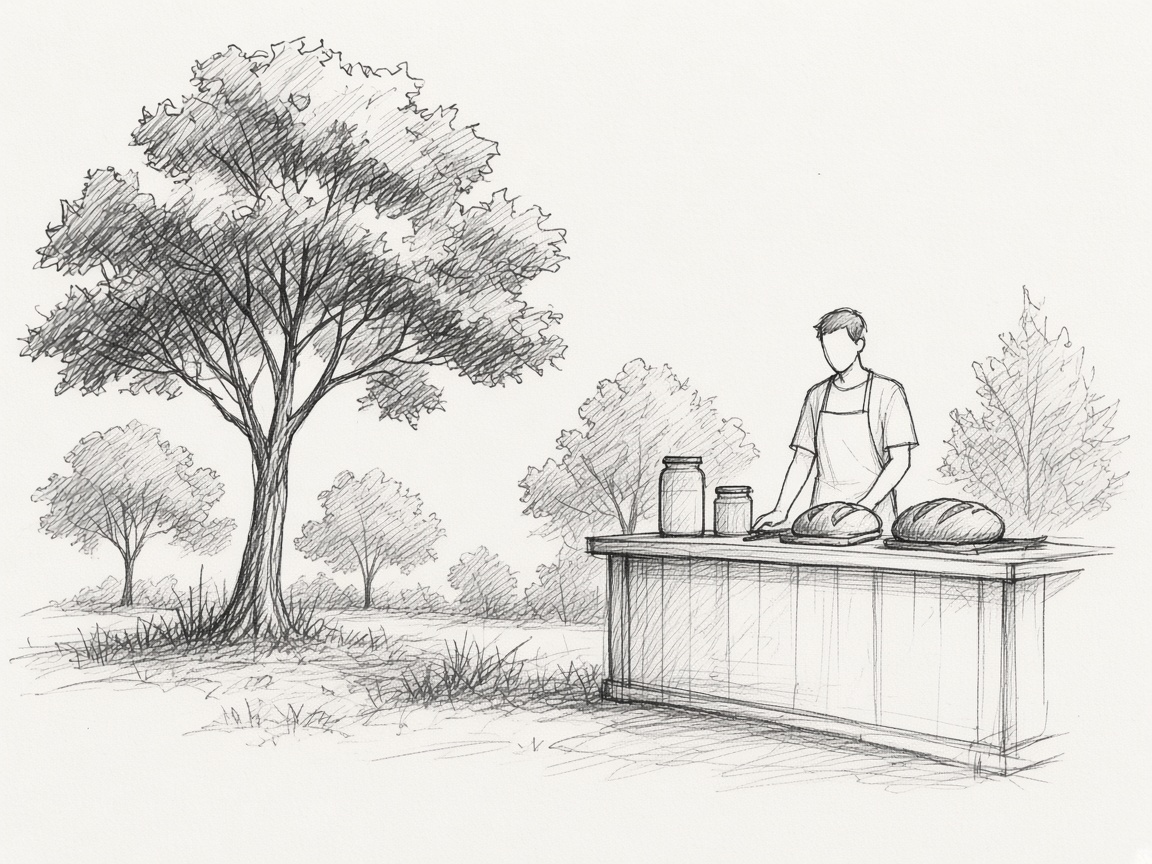
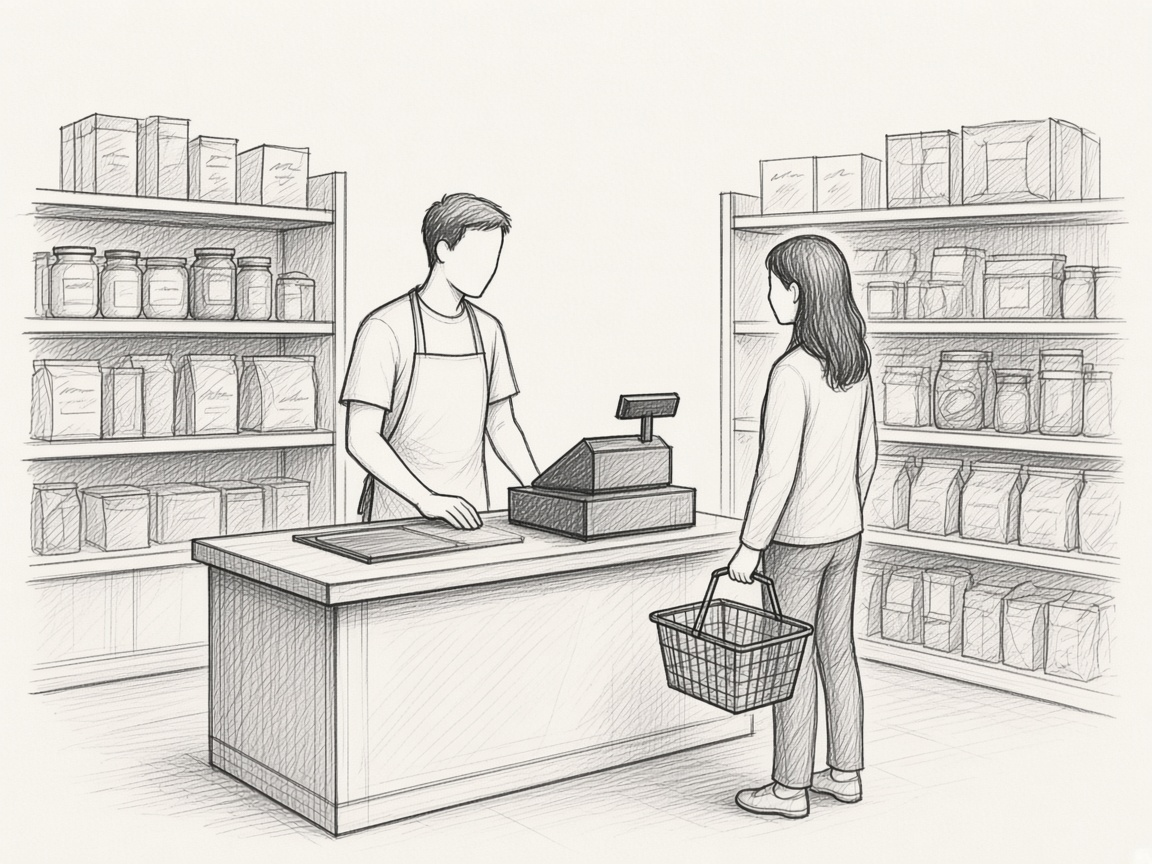
Show a grocery checkout on the store opener.
A till and shelves read as a shop, not an outdoor market stall.

diff --git a/index.html b/index.html
@@ -133,7 +133,7 @@
           <p class="aside-line">I run a grocery store, choose the food we sell, and decide how to display it.</p>
         </div>
         <figure>
-          <img src="images/store-open.jpg" alt="A shopkeeper behind a wooden counter with a few local food products.">
+          <img src="images/store-open.jpg" alt="A shopkeeper at a grocery checkout with a till, shelves of packaged food, and a customer holding a basket.">
         </figure>
       </section>
 
